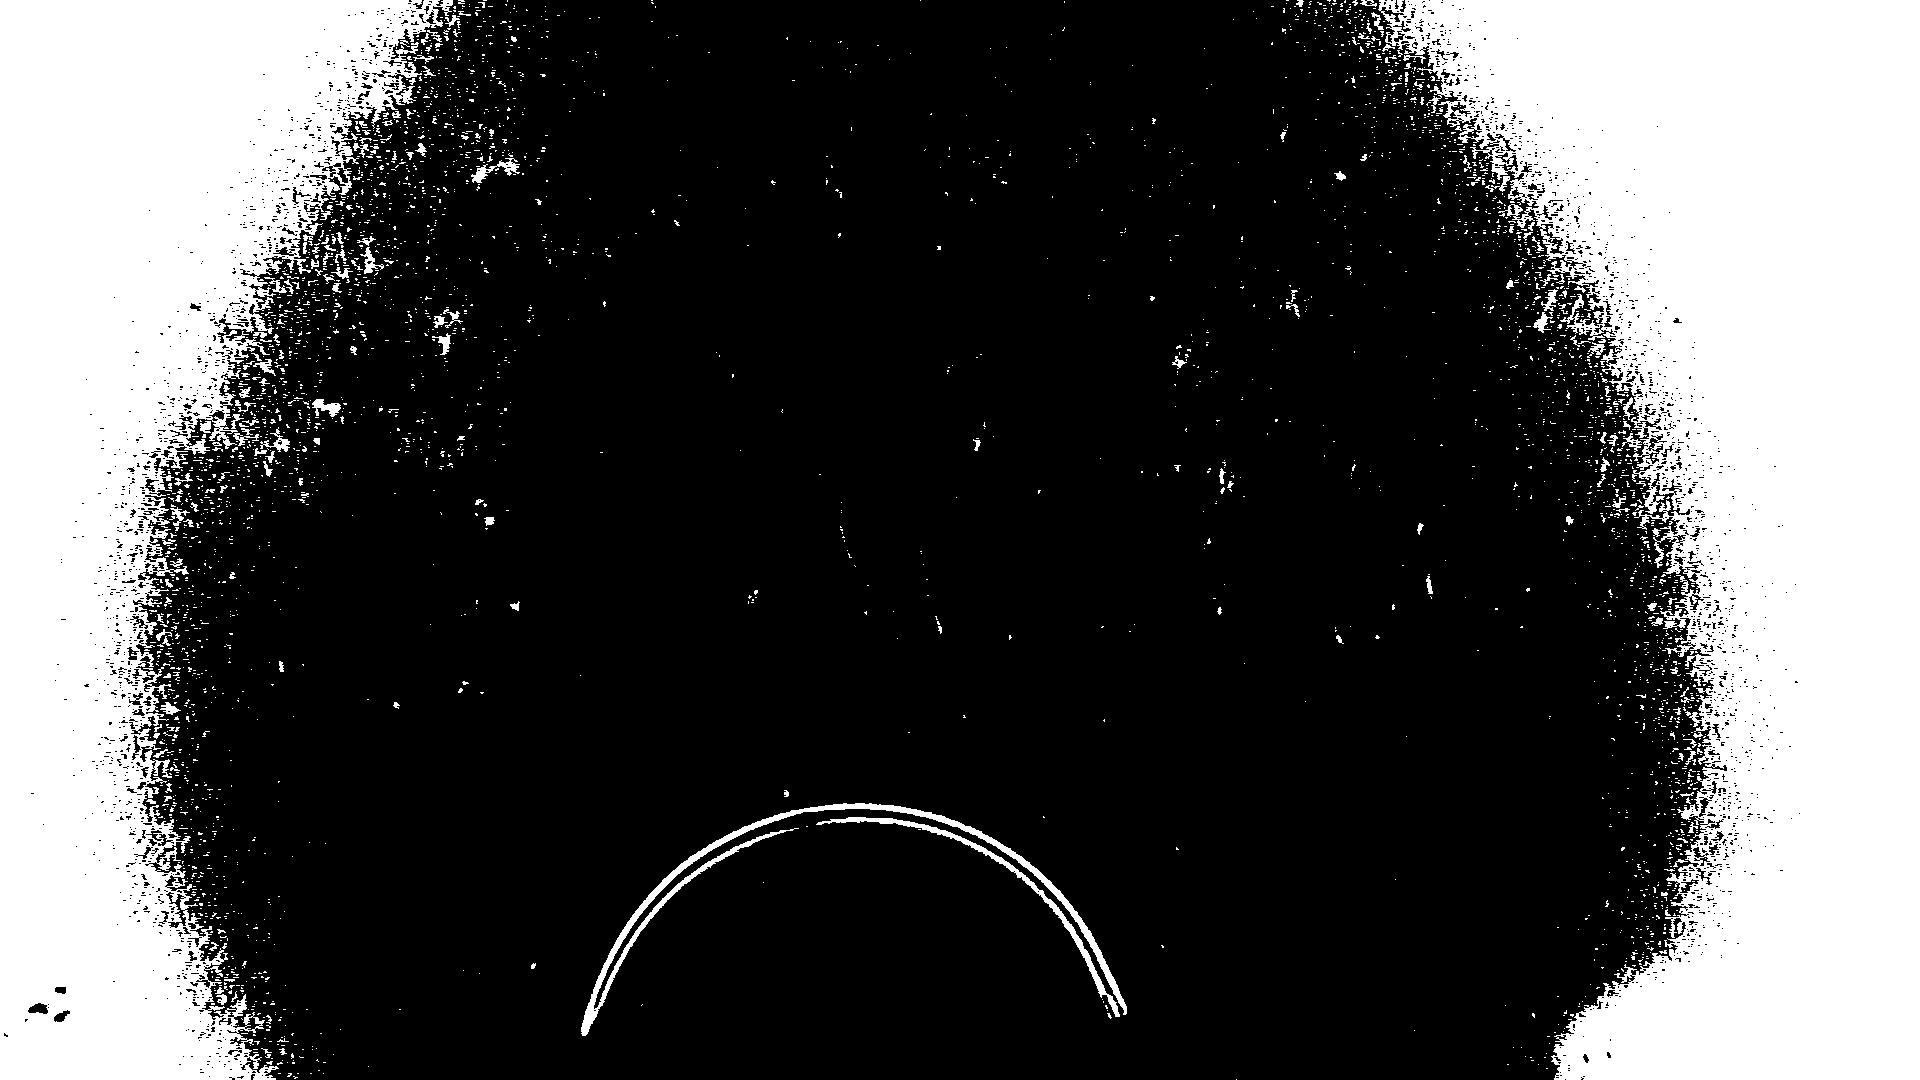
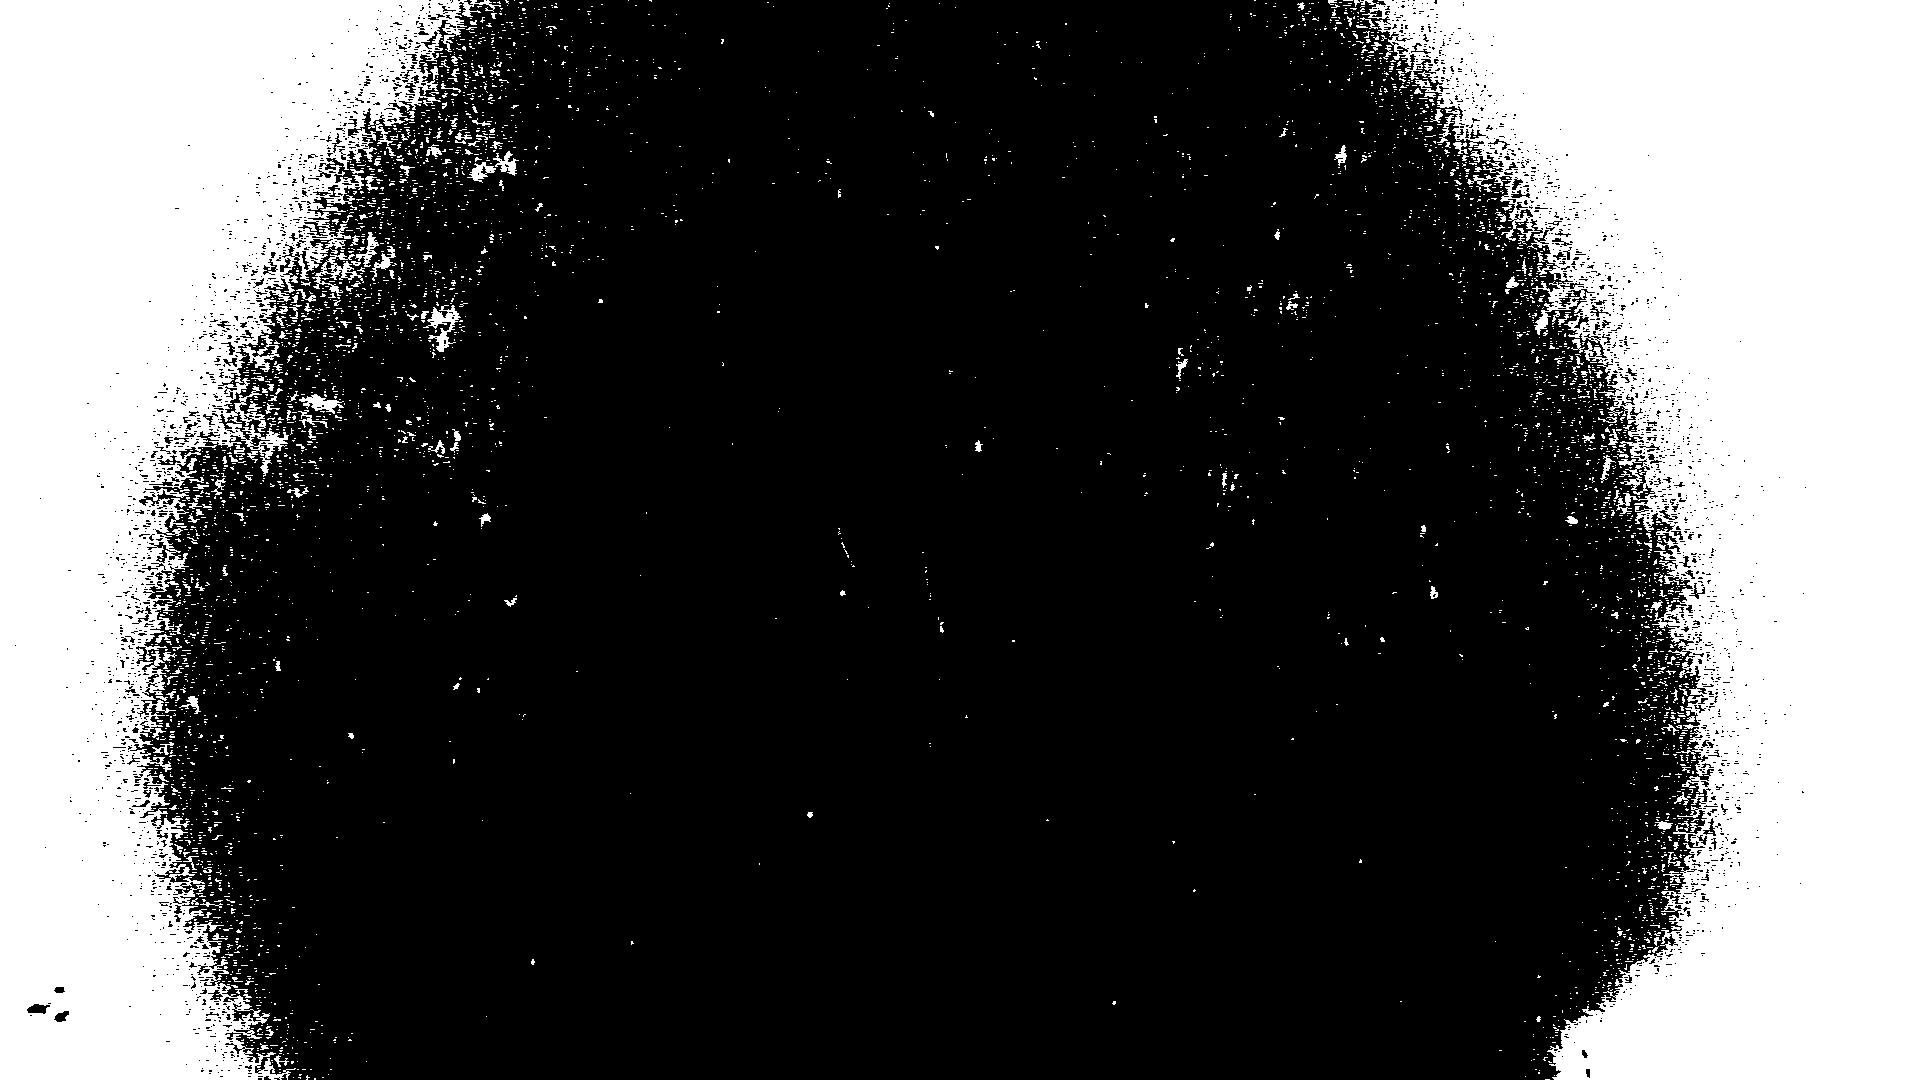
working version of embedded needle detection

diff --git a/stereo/stereo_embedded.py b/stereo/stereo_embedded.py
@@ -42,8 +42,8 @@ class EmbeddedNeedleDetector():
         self.area_lower = 1800
         self.area_upper = 20000
         self.ellipse_lower = 1300
-        self.ellipse_upper = 180000
-        self.residual_lower = 250
+        self.ellipse_upper = 190000 #play with this, was 180000 before
+        self.residual_lower = 400 #play with this, was 250 before
         self.residual_upper = 1200 #play with this, was 2000 before
         self.TL_R = get_stereo_transform()
 
@@ -150,10 +150,10 @@ class EmbeddedNeedleDetector():
     def preprocess(self, image):
     	image_in = cv2.cvtColor(image, cv2.COLOR_BGR2RGB)
         corrected = np.uint8(cv2.pow(image_in/255.0, 1.4) * 255)
-        scipy.misc.imsave("camera_data/gamma_corrected.jpg", corrected)
+        # scipy.misc.imsave("camera_data/gamma_corrected.jpg", corrected)
         gray = cv2.cvtColor(image_in, cv2.COLOR_RGB2GRAY)
         thresh = cv2.threshold(gray, 0, 255, cv2.THRESH_BINARY_INV + cv2.THRESH_OTSU)[1]
-        scipy.misc.imsave("camera_data/thresh.jpg", thresh)
+        # scipy.misc.imsave("camera_data/thresh.jpg", thresh)
         return thresh
 
 

diff --git a/move_calibration.py b/move_calibration.py
@@ -58,9 +58,9 @@ if __name__ == '__main__':
 
 	""" POSE PSM2 WAS CALIBRATED IN """
 	pos = PyKDL.Vector(-0.118749, 0.0203151, -0.111688)
-	rot = PyKDL.Rotation(-0.990774,    0.102893,  -0.0882081,
-						0.102822,    0.994685,  0.00536036,
-						 0.0882908, -0.00375885,   -0.996088)
+	rot = PyKDL.Rotation(-0.940475,    0.313929,   -0.130214,
+						0.330906,    0.933198,   -0.140157,
+						 0.0775163,   -0.174902,    -0.98153)
 
 	""" Move to arbitrary start position (near upper left corner) & release anything gripper is
 	holding. """
@@ -78,6 +78,6 @@ if __name__ == '__main__':
 	pprint.pprint(psme_2)
 
 	""" Move to chessboard corner, descend, come up,and go to next. """
-	# move_to(psm2, psme_2.tolist(), z_upper)
+	move_to(psm2, psme_2.tolist(), z_upper)
 
-	# home(psm2, pos, rot)
+	home(psm2, pos, rot)
